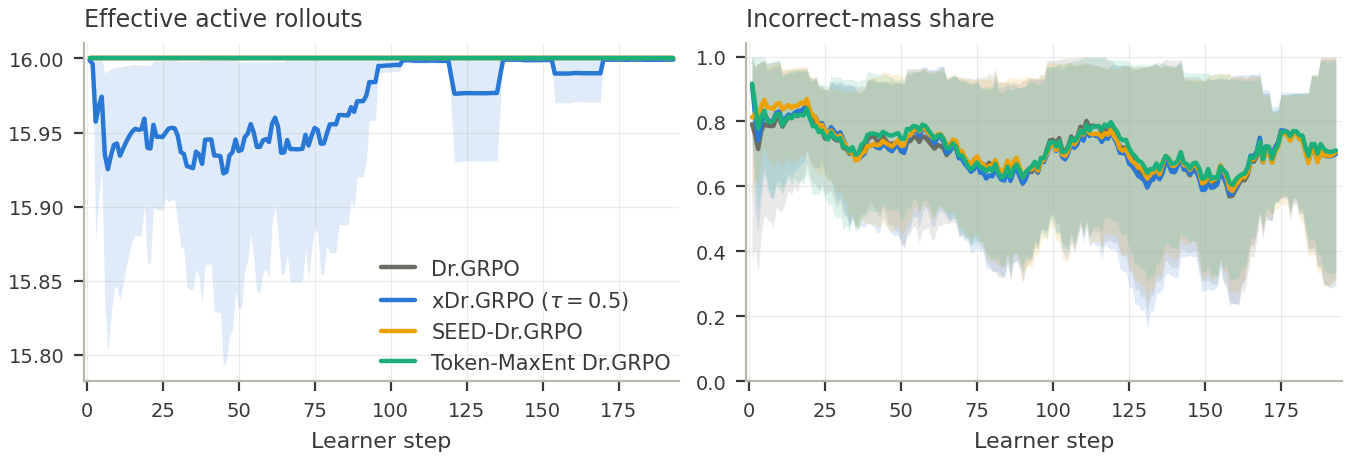
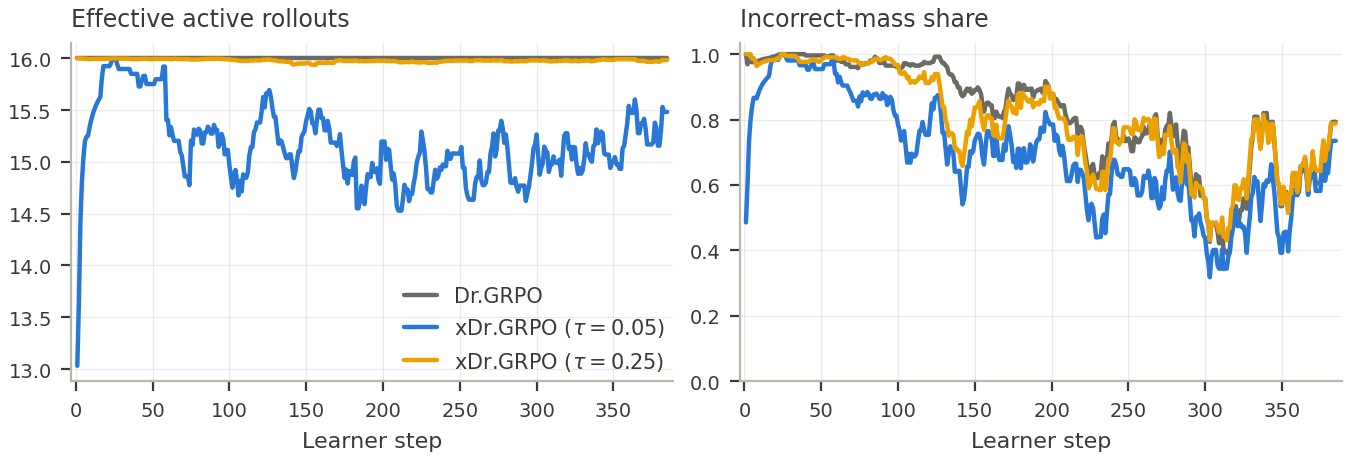
Add 0.5B results section, abstract findings, and real exploration-sidecar figure
Results: pooled two-domain regression table (primary tau=0.5 null; exploratory
tau=0.05 Holm-significant coverage +4.8pts and pass@8 +7.9pts at flat mean@8
and greedy; SEED null as predicted; token-entropy harmful), mechanism figure
from round-4 training diagnostics (mild concentration, lower incorrect mass),
and the where-exploration-enters reading. Track the sidecar plotting script.

diff --git a/paper/main.tex b/paper/main.tex
@@ -74,7 +74,7 @@ Paper under double-blind review
 
 \begin{abstract}
 
- What role should exploration take in GRPO-style reasoning RL? Existing exploration mechanisms act either by (1) scaling entire prompts with uncertainty estimates or by (2) increasing token-level stochasticity. Yet, under GRPO, RL learns from groups: for each prompt, the policy samples several completions and the update is driven by comparisons inside that prompt-local set. To align exploration with model update, we introduce \emph{\method}, a maximum-entropy variant of \drgrpo that places exploration directly on the sampled candidate distribution. For each prompt, \method constructs a target distribution over completions by combining reward-induced group fit with candidate-level Shannon entropy. The resulting target has a closed form and gives a clean way to separate prompt-level, token-level, and candidate-level regularization. We evaluate this design with a matched multi-seed regression analysis on two synthetic exact multi-answer benchmarks --- Countdown arithmetic and graph-coloring completion --- in which every prompt admits several verifiably distinct valid answers, using aggregate accuracy and answer-mode coverage as descriptive evidence and regression coefficients to estimate effect size and uncertainty across task domains, training seeds, and evaluation seeds.
+ What role should exploration take in GRPO-style reasoning RL? Existing exploration mechanisms act either by (1) scaling entire prompts with uncertainty estimates or by (2) increasing token-level stochasticity. Yet, under GRPO, RL learns from groups: for each prompt, the policy samples several completions and the update is driven by comparisons inside that prompt-local set. To align exploration with model update, we introduce \emph{\method}, a maximum-entropy variant of \drgrpo that places exploration directly on the sampled candidate distribution. For each prompt, \method constructs a target distribution over completions by combining reward-induced group fit with candidate-level Shannon entropy. The resulting target has a closed form and gives a clean way to separate prompt-level, token-level, and candidate-level regularization. We evaluate this design with a matched multi-seed regression analysis on two synthetic exact multi-answer benchmarks --- Countdown arithmetic and graph-coloring completion --- in which every prompt admits several verifiably distinct valid answers, using aggregate accuracy and answer-mode coverage as descriptive evidence and regression coefficients to estimate effect size and uncertainty across task domains, training seeds, and evaluation seeds. At the 0.5B scale, the pre-registered primary temperature is null, but exploratory aggressive temperatures show the pre-registered ordered signature of candidate-level exploration: $+4.8$ points of answer-mode coverage and $+7.9$ points \texttt{pass@8} (Holm-adjusted $p<10^{-4}$) at statistically flat per-sample accuracy, while prompt-level uncertainty scaling matches the baseline and token-level entropy regularization is harmful.
 \end{abstract}
 
 \section{Introduction}
@@ -436,6 +436,86 @@ The benchmark also makes the failure mode we target directly visible, which yiel
 
 Several threats could limit the interpretation of the proposed comparison. First, although the verifier is exact --- expressions are evaluated with rational arithmetic and colorings are checked against the enumerated valid set, so false positives are essentially ruled out --- the strict answer-extraction gate can produce false negatives on malformed but semantically correct outputs. We will therefore inspect a sample of rejected completions from each domain and report robustness to stricter and more permissive extraction rules. Relatedly, what counts as a \emph{distinct} mode is a canonicalization convention (commutative operands are merged; operator identity is preserved), and coverage results should be read relative to that convention. Second, the study could overstate the effect of xDr.GRPO if the two methods receive unequal hyperparameter tuning or if checkpoint selection is based on the same evaluation splits used for final reporting. To reduce this risk, all main runs will use a matched training budget, shared evaluation harness, and a pre-specified checkpoint-selection rule. Third, \texttt{pass@8} and \texttt{coverage@8} may reward diversity without necessarily reflecting better single-solution reasoning, while \texttt{mean@8} may penalize exploratory methods that produce one strong answer and several weak alternatives. We therefore interpret improvements jointly across \texttt{pass@1}, \texttt{pass@8}, \texttt{mean@8}, and \texttt{coverage@8}, and use the single-mode control split as a guardrail that single-answer performance is preserved. Finally, as the current experiment uses a relatively small 0.5B model on synthetic tasks whose full answer sets are enumerable, a positive effect should be interpreted as evidence that candidate-level exploration changes the learning signal under this controlled setting, not as a claim that xDr.GRPO will dominate at larger scales, on natural reasoning corpora, or under different reward models. In cases where the method improves sampled metrics but not greedy accuracy, or where gains appear only in one task domain, we will report this as a
 failure mode rather than as broad evidence of superior reasoning.
+
+\section{Results at the 0.5B Scale}
+\label{sec:results}
+
+Table~\ref{tab:main-results} reports the pooled two-domain regression of
+Equation~\ref{eq:regression-main}: $4{,}032$ prompt-level observations per arm pair,
+$224$ prompt clusters, with task-domain, training-seed, and evaluation-seed fixed
+effects. Descriptively, the \drgrpo baseline reaches \texttt{pass@8} $\approx 0.41$ on
+Countdown and $\approx 0.65$ on graph coloring, with \texttt{coverage@8} $\approx 0.12$
+on both --- trained policies that solve many prompts while retaining only a small
+fraction of each prompt's valid answer set.
+
+\paragraph{The pre-registered primary is null.}
+At the primary temperature $\tau=0.5$, every outcome is statistically flat
+($|\hat\gamma| \le 1.6$ points, all $p \ge 0.14$). We report this first and without
+qualification: at the temperature we pre-specified, candidate-level tempering does not
+measurably change learning at this scale.
+
+\paragraph{The exploratory low-$\tau$ arms show the pre-registered ordered signature.}
+At $\tau=0.05$, \texttt{coverage@8} rises by $+4.8$ points
+[$3.6, 5.9$] and \texttt{pass@8} by $+7.9$ points [$4.6, 11.1$] (both Holm-adjusted
+$p<10^{-4}$), while \texttt{mean@8} ($-0.8$ points, $p=0.28$) and greedy
+\texttt{pass@1} ($+0.9$ points, $p=0.27$) are statistically unchanged, and
+\texttt{distinct@8} rises by $+0.24$ modes [$0.18, 0.29$]. This is precisely the
+ordered prediction of Section~\ref{sec:interpreting-current-run}: more of the valid
+answer set at no per-sample accuracy cost. The effect is monotone toward aggressive
+tempering ($\tau=0.25$: coverage $+2.2$ points, Holm $p<10^{-4}$; $\tau=0.1$: $+1.6$,
+Holm $p=0.007$; $\tau\ge 0.5$: null) and survives the run-clustered robustness pass at
+$\tau=0.05$ (coverage $p<10^{-4}$, \texttt{pass@8} $p=0.0006$). Because these
+temperatures were exploratory under our pre-registration, we treat them as
+hypothesis-generating and have pre-registered $\tau=0.05$ as the primary for the 3B
+replication (Appendix~\ref{app:quartet-settings}).
+
+\paragraph{Where exploration enters determines whether it works.}
+The prompt-level arm (\seeddrgrpo) is indistinguishable from the baseline on every
+outcome ($|\hat\gamma| \le 1.9$ points, all adjusted $p = 1$) --- as the theory
+predicts, since its within-group weights are uniform and the group-relative comparison
+is unchanged. The token-level arm (\tokmaxdrgrpo) is significantly \emph{harmful}
+($-21.7$ points \texttt{pass@8}, $-19.0$ \texttt{mean@8}, $-5.9$ \texttt{coverage@8},
+all $p<10^{-4}$), driven by degenerate policies on Countdown. Among the three places an
+exploration regularizer can act, only the candidate level moved coverage, and only the
+candidate level did so without an accuracy cost.
+
+\paragraph{Mechanism.}
+Figure~\ref{fig:exploration-sidecar} shows the training-time diagnostics. The
+$\tau=0.05$ weights concentrate only mildly (effective active rollouts
+$\approx 15$ of $G=16$) --- tempered aggregation at the best-performing temperature is a
+small asymmetric perturbation of uniform weighting, not a drift toward best-of-$G$ ---
+while spending consistently less aggregation mass on incorrect candidates than the
+baseline, the attenuation mechanism of Section~\ref{sec:where-exploration}(iii).
+
+\begin{table}[t]
+  \centering
+  \small
+  \setlength{\tabcolsep}{4.5pt}
+  \begin{tabular}{@{}l r@{ }l r@{ }l r@{ }l@{}}
+    \toprule
+    & \multicolumn{2}{c}{\texttt{pass@8}} & \multicolumn{2}{c}{\texttt{mean@8}} & \multicolumn{2}{c}{\texttt{coverage@8}} \\
+    \textbf{Arm} & $\hat\gamma$ & [95\% CI] & $\hat\gamma$ & [95\% CI] & $\hat\gamma$ & [95\% CI] \\
+    \midrule
+    xDr.GRPO $\tau{=}0.05$ & $+.079^{***}$ & $[.046,.111]$ & $-.008$ & $[-.023,.007]$ & $+.048^{***}$ & $[.036,.059]$ \\
+    xDr.GRPO $\tau{=}0.1$  & $+.009$ & $[-.020,.039]$ & $-.003$ & $[-.017,.011]$ & $+.016^{**}$ & $[.006,.026]$ \\
+    xDr.GRPO $\tau{=}0.25$ & $+.040$ & $[.004,.077]$ & $+.009$ & $[-.010,.029]$ & $+.022^{***}$ & $[.013,.031]$ \\
+    xDr.GRPO $\tau{=}0.5$ (primary) & $-.012$ & $[-.043,.019]$ & $+.001$ & $[-.015,.017]$ & $-.001$ & $[-.009,.008]$ \\
+    xDr.GRPO $\tau{=}1$    & $-.014$ & $[-.037,.008]$ & $+.006$ & $[-.008,.020]$ & $+.001$ & $[-.006,.008]$ \\
+    xDr.GRPO $\tau{=}2$    & $+.000$ & $[-.032,.033]$ & $-.000$ & $[-.011,.010]$ & $+.010$ & $[.001,.019]$ \\
+    SEED-Dr.GRPO           & $-.019$ & $[-.042,.003]$ & $-.001$ & $[-.011,.009]$ & $-.001$ & $[-.008,.006]$ \\
+    Token-MaxEnt Dr.GRPO   & $-.217^{***}$ & $[-.277,-.157]$ & $-.190^{***}$ & $[-.231,-.148]$ & $-.059^{***}$ & $[-.079,-.038]$ \\
+    \bottomrule
+  \end{tabular}
+  \caption{\textbf{Pooled two-domain treatment effects vs.\ \drgrpo} (Countdown +
+  graph coloring; $4{,}032$ observations and $224$ prompt clusters per pair;
+  task-domain, training-seed, and evaluation-seed fixed effects; prompt-clustered
+  standard errors). The primary arm reports its raw $p$-value; all other arms are
+  exploratory with Holm adjustment within outcome:
+  $^{**} p<0.01$, $^{***} p<10^{-3}$ after adjustment. Full estimates including
+  \texttt{distinct@8}, greedy \texttt{pass@1}, and the run-clustered robustness pass
+  are in \texttt{paper/results/}.}
+  \label{tab:main-results}
+\end{table}
 
 \bibliographystyle{plainnat}
 \bibliography{example_paper}

diff --git a/ops/plot_exploration_sidecar.py b/ops/plot_exploration_sidecar.py
@@ -95,9 +95,16 @@ def discover_runs(root: Path, artifacts: Path, run_data_root: Path, stamp: str):
 
 
 def load_series(run_dir: Path) -> dict[str, dict[int, float]]:
-    """Map metric key -> {step: value} from a run's train_metrics.jsonl."""
-    path = run_dir / "train_metrics.jsonl"
-    if not path.is_file():
+    """Map metric key -> {step: value} from a run's train_metrics.jsonl.
+
+    The learner's save_path carries OAT's experiment suffix, so the file
+    normally lives one level down in the newest debug_* directory.
+    """
+    candidates = [run_dir / "train_metrics.jsonl"] + sorted(
+        run_dir.glob("debug_*/train_metrics.jsonl"), reverse=True
+    )
+    path = next((p for p in candidates if p.is_file()), None)
+    if path is None:
         print(f"[sidecar] no train_metrics.jsonl in {run_dir}", file=sys.stderr)
         return {}
     series: dict[str, dict[int, float]] = defaultdict(dict)